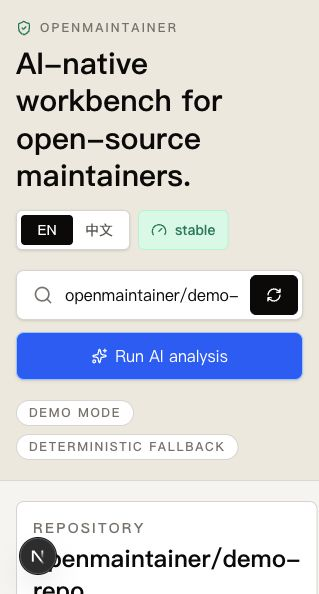
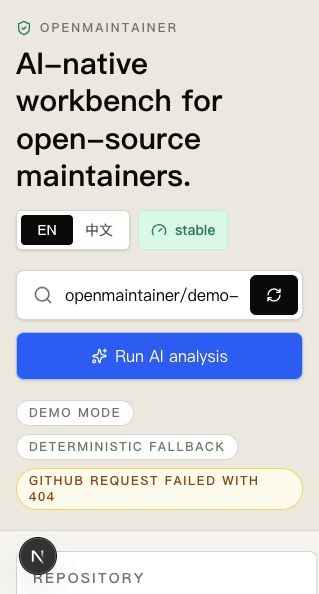
feat: add local snapshot store

Changed region(s): [[0.0282, 0.7879, 1.0, 1.0]]

diff --git a/src/components/dashboard.tsx b/src/components/dashboard.tsx
@@ -21,6 +21,11 @@ import {
 } from "lucide-react";
 import { FormEvent, useMemo, useState } from "react";
 import type { MaintainerAnalysis, MaintainerRepository } from "@/lib/types";
+import {
+  createSnapshotFromAnalysis,
+  readSnapshot,
+  writeSnapshot,
+} from "@/lib/snapshot-store";
 
 type RepositoryResponse = {
   repository: MaintainerRepository;
@@ -52,6 +57,7 @@ const copy = {
     playbooks: "Repository playbooks",
     digest: "Weekly digest",
     trend: "Trend memory",
+    snapshotSaved: "Snapshot saved",
     githubHandoff: "GitHub handoff",
     copyDigest: "Copy digest",
     copyPlaybook: "Copy playbook",
@@ -77,6 +83,7 @@ const copy = {
     playbooks: "仓库维护剧本",
     digest: "维护周报",
     trend: "趋势记忆",
+    snapshotSaved: "快照已保存",
     githubHandoff: "GitHub 交接",
     copyDigest: "复制周报",
     copyPlaybook: "复制剧本",
@@ -176,6 +183,7 @@ export function Dashboard({
   const [copiedAction, setCopiedAction] = useState<string | null>(null);
   const [copiedPlaybook, setCopiedPlaybook] = useState<string | null>(null);
   const [copiedDigest, setCopiedDigest] = useState(false);
+  const [snapshotSaved, setSnapshotSaved] = useState(false);
   const [locale, setLocale] = useState<Locale>("en");
   const text = copy[locale];
 
@@ -196,13 +204,29 @@ export function Dashboard({
     setWarning(null);
 
     try {
-      const response = await fetch(`/api/repository?repo=${encodeURIComponent(repoInput)}`);
+      const params = new URLSearchParams({ repo: repoInput });
+      const previousSnapshot =
+        typeof window === "undefined"
+          ? null
+          : readSnapshot(window.localStorage, repoInput) ??
+            readSnapshot(window.localStorage, repository.identity.fullName);
+      if (previousSnapshot) params.set("previousSnapshot", JSON.stringify(previousSnapshot));
+      const response = await fetch(`/api/repository?${params.toString()}`);
       const data = (await response.json()) as RepositoryResponse;
       setRepository(data.repository);
       setAnalysis(data.analysis);
       setSource(data.source);
       setProvider("deterministic");
       setWarning(data.warning ?? null);
+      if (typeof window !== "undefined") {
+        writeSnapshot(
+          window.localStorage,
+          data.repository.identity.fullName,
+          createSnapshotFromAnalysis(data.repository, data.analysis),
+        );
+        setSnapshotSaved(true);
+        window.setTimeout(() => setSnapshotSaved(false), 1800);
+      }
     } catch (error) {
       setWarning(error instanceof Error ? error.message : "Unable to inspect repository");
     } finally {
@@ -348,6 +372,11 @@ export function Dashboard({
               {provider === "openai" ? "OpenAI" : text.fallback}
             </span>
             {warning ? <span className="rounded-full border border-amber-300 bg-amber-50 px-3 py-1 text-amber-800">{warning}</span> : null}
+            {snapshotSaved ? (
+              <span className="rounded-full border border-emerald-300 bg-emerald-50 px-3 py-1 text-emerald-800">
+                {text.snapshotSaved}
+              </span>
+            ) : null}
           </div>
         </div>
       </section>

diff --git a/src/lib/snapshot-store.ts b/src/lib/snapshot-store.ts
@@ -1,0 +1,72 @@
+import type {
+  MaintainerAnalysis,
+  MaintainerRepository,
+  RepositoryAnalysisSnapshot,
+} from "./types";
+
+type SnapshotStorage = {
+  getItem?: (key: string) => string | null;
+  setItem?: (key: string, value: string) => void;
+  get?: (key: string) => string | undefined;
+  set?: (key: string, value: string) => unknown;
+};
+
+export function repositorySnapshotKey(fullName: string) {
+  return `openmaintainer:snapshot:${fullName.toLowerCase()}`;
+}
+
+export function createSnapshotFromAnalysis(
+  repository: MaintainerRepository,
+  analysis: MaintainerAnalysis,
+  capturedAt = new Date().toISOString(),
+): RepositoryAnalysisSnapshot {
+  return {
+    capturedAt,
+    healthScore: analysis.health.score,
+    readinessScore: analysis.readiness.score,
+    openIssues: repository.openIssues,
+    openPullRequests: repository.pullRequests.length,
+    qualitySignals: analysis.qualitySignals.map((signal) => ({
+      id: signal.id,
+      score: signal.score,
+    })),
+  };
+}
+
+function readValue(storage: SnapshotStorage, key: string) {
+  if (storage.getItem) return storage.getItem(key);
+  return storage.get?.(key) ?? null;
+}
+
+function writeValue(storage: SnapshotStorage, key: string, value: string) {
+  if (storage.setItem) {
+    storage.setItem(key, value);
+    return;
+  }
+
+  storage.set?.(key, value);
+}
+
+export function readSnapshot(
+  storage: SnapshotStorage,
+  fullName: string,
+): RepositoryAnalysisSnapshot | null {
+  const value = readValue(storage, repositorySnapshotKey(fullName));
+  if (!value) return null;
+
+  try {
+    const parsed = JSON.parse(value) as RepositoryAnalysisSnapshot;
+    if (!parsed.capturedAt || !Array.isArray(parsed.qualitySignals)) return null;
+    return parsed;
+  } catch {
+    return null;
+  }
+}
+
+export function writeSnapshot(
+  storage: SnapshotStorage,
+  fullName: string,
+  snapshot: RepositoryAnalysisSnapshot,
+) {
+  writeValue(storage, repositorySnapshotKey(fullName), JSON.stringify(snapshot));
+}

diff --git a/src/lib/snapshot-store.test.ts b/src/lib/snapshot-store.test.ts
@@ -1,0 +1,50 @@
+import { describe, expect, it } from "vitest";
+import { analyzeRepository } from "./maintainer-analysis";
+import { demoRepository } from "./demo-data";
+import {
+  createSnapshotFromAnalysis,
+  readSnapshot,
+  repositorySnapshotKey,
+  writeSnapshot,
+} from "./snapshot-store";
+
+describe("snapshot-store", () => {
+  it("creates a compact repository snapshot from analysis", () => {
+    const analysis = analyzeRepository(demoRepository, new Date("2026-06-01T00:00:00Z"));
+    const snapshot = createSnapshotFromAnalysis(demoRepository, analysis, "2026-06-01T00:00:00Z");
+
+    expect(snapshot).toMatchObject({
+      capturedAt: "2026-06-01T00:00:00Z",
+      healthScore: analysis.health.score,
+      readinessScore: analysis.readiness.score,
+      openIssues: demoRepository.openIssues,
+      openPullRequests: demoRepository.pullRequests.length,
+    });
+    expect(snapshot.qualitySignals).toContainEqual({
+      id: "label-coverage",
+      score: 50,
+    });
+  });
+
+  it("stores and reads snapshots by repository full name", () => {
+    const storage = new Map<string, string>();
+    const snapshot = createSnapshotFromAnalysis(
+      demoRepository,
+      analyzeRepository(demoRepository, new Date("2026-06-01T00:00:00Z")),
+      "2026-06-01T00:00:00Z",
+    );
+
+    writeSnapshot(storage, demoRepository.identity.fullName, snapshot);
+
+    expect(storage.has(repositorySnapshotKey("openmaintainer/demo-repo"))).toBe(true);
+    expect(readSnapshot(storage, "openmaintainer/demo-repo")).toEqual(snapshot);
+  });
+
+  it("ignores invalid stored snapshot data", () => {
+    const storage = new Map<string, string>([
+      [repositorySnapshotKey("openmaintainer/demo-repo"), "{bad json"],
+    ]);
+
+    expect(readSnapshot(storage, "openmaintainer/demo-repo")).toBeNull();
+  });
+});

diff --git a/src/app/api/repository/route.ts b/src/app/api/repository/route.ts
@@ -1,15 +1,29 @@
 import { analyzeRepository } from "@/lib/maintainer-analysis";
 import { getRepositoryOrDemo } from "@/lib/github";
 import { demoPreviousSnapshot } from "@/lib/demo-data";
+import type { RepositoryAnalysisSnapshot } from "@/lib/types";
+
+function parsePreviousSnapshot(value: string | null): RepositoryAnalysisSnapshot | undefined {
+  if (!value) return undefined;
+
+  try {
+    const parsed = JSON.parse(value) as RepositoryAnalysisSnapshot;
+    if (!parsed.capturedAt || !Array.isArray(parsed.qualitySignals)) return undefined;
+    return parsed;
+  } catch {
+    return undefined;
+  }
+}
 
 export async function GET(request: Request) {
   const url = new URL(request.url);
   const repoInput = url.searchParams.get("repo");
+  const previousSnapshot = parsePreviousSnapshot(url.searchParams.get("previousSnapshot"));
   const result = await getRepositoryOrDemo(repoInput);
   const analysis = analyzeRepository(
     result.repository,
     new Date(),
-    result.source === "demo" ? demoPreviousSnapshot : undefined,
+    previousSnapshot ?? (result.source === "demo" ? demoPreviousSnapshot : undefined),
   );
 
   return Response.json({

diff --git a/README.md b/README.md
@@ -35,6 +35,7 @@ OpenMaintainer makes that work visible in one cockpit. AI output is treated as a
 - OSS readiness checklist
 - Real repository quality signals for label coverage, response gaps, PR age, and review load
 - Trend memory for comparing current analysis with a previous repository snapshot
+- Local snapshot store that remembers previous analyses in the browser
 - Similar issue cluster detection
 - Copyable maintainer action plan for issues, pull requests, and release prep
 - GitHub CLI handoff commands for maintainer-approved execution

diff --git a/docs/architecture.md b/docs/architecture.md
@@ -24,6 +24,7 @@ OpenMaintainer is split into four layers.
 - OSS readiness checks
 - Repository quality signals for queue age, label coverage, and review load
 - Trend memory that compares the current analysis with a previous snapshot
+- Browser-local snapshot storage for repeat inspections without a backend database
 - Similar issue clusters
 - Copyable maintainer actions for GitHub workflow handoff
 - Safe GitHub CLI commands that require maintainer execution

diff --git a/ROADMAP.md b/ROADMAP.md
@@ -12,6 +12,7 @@
 - Copyable maintainer action plan
 - Real repository quality signals
 - Trend memory for repository snapshot comparison
+- Local snapshot store for repeat repository inspections
 - GitHub CLI handoff commands
 - Repository playbooks for daily, weekly, and release cadence
 - Weekly maintainer digest
